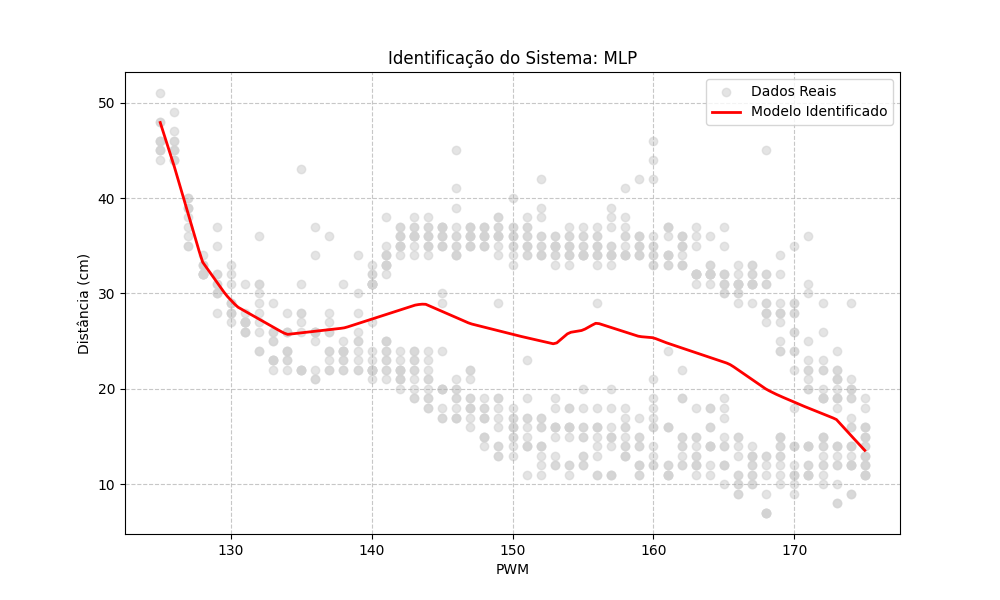
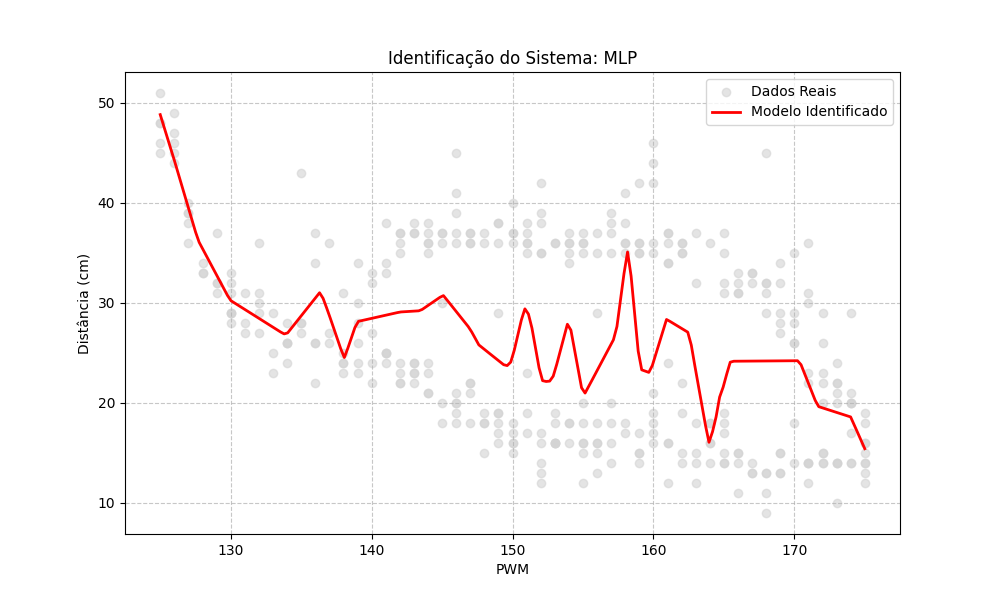
test: aumento no número da população e ajuste do identificador

diff --git a/Identificacao/modeloID/mlp.py b/Identificacao/modeloID/mlp.py
@@ -10,11 +10,12 @@ try:
     df = pd.read_csv('Identificacao/dados_pwm.csv')
     print("Dados carregados com sucesso!")
 except FileNotFoundError:
-    print("Erro: Arquivo 'dados_pwm1.csv' não encontrado.")
+    print("Erro: Arquivo 'dados_pwm.csv' não encontrado.")
     exit()
 
-X = df[['PWM']].values
-y = df['Distancia_cm'].values
+df_subida = df[df['Distancia_cm'].diff() > 0]  # mantém as linhas onde a diferença da distância é positiva
+X = df_subida[['PWM']].values
+y = df_subida['Distancia_cm'].values
 
 X_train, X_test, y_train, y_test = train_test_split(X, y, test_size=0.2, random_state=42)
 

diff --git a/Controle/kp_resultados.h b/Controle/kp_resultados.h
@@ -1,10 +1,10 @@
-#define Kp_50_45 0.3970
-#define Kp_45_40 0.2727
-#define Kp_40_35 0.2778
-#define Kp_35_30 0.3525
-#define Kp_30_25 1.1930
-#define Kp_25_20 1.3819
-#define Kp_20_15 1.3523
-#define Kp_15_10 1.2225
-#define Kp_10_5 1.0112
-#define Kp_5_0  1.0007
+#define Kp_50_45 0.1004
+#define Kp_45_40 0.1482
+#define Kp_40_35 0.3432
+#define Kp_35_30 0.1891
+#define Kp_30_25 1.4125
+#define Kp_25_20 1.5000
+#define Kp_20_15 1.2955
+#define Kp_15_10 1.2455
+#define Kp_10_5 1.0896
+#define Kp_5_0  0.8758

diff --git a/Controle/controleGA.py b/Controle/controleGA.py
@@ -56,7 +56,7 @@ def fitness_P_unico(Kp, referencia, mlp, scaler_X, scaler_y, lambda_u=0.1):
 # 4) ALGORITMO GENÉTICO PARA UM ÚNICO KP
 # ======================================================
 def GA_encontrar_Kp(mlp, scaler_X, scaler_y, referencia,
-                    pop_size=30, geracoes=30,
+                    pop_size=30, geracoes=100,
                     prob_reproducao=0.8, taxa_mutacao=0.2):
 
     pop = np.random.uniform(0, 1.5, size= (pop_size,))
